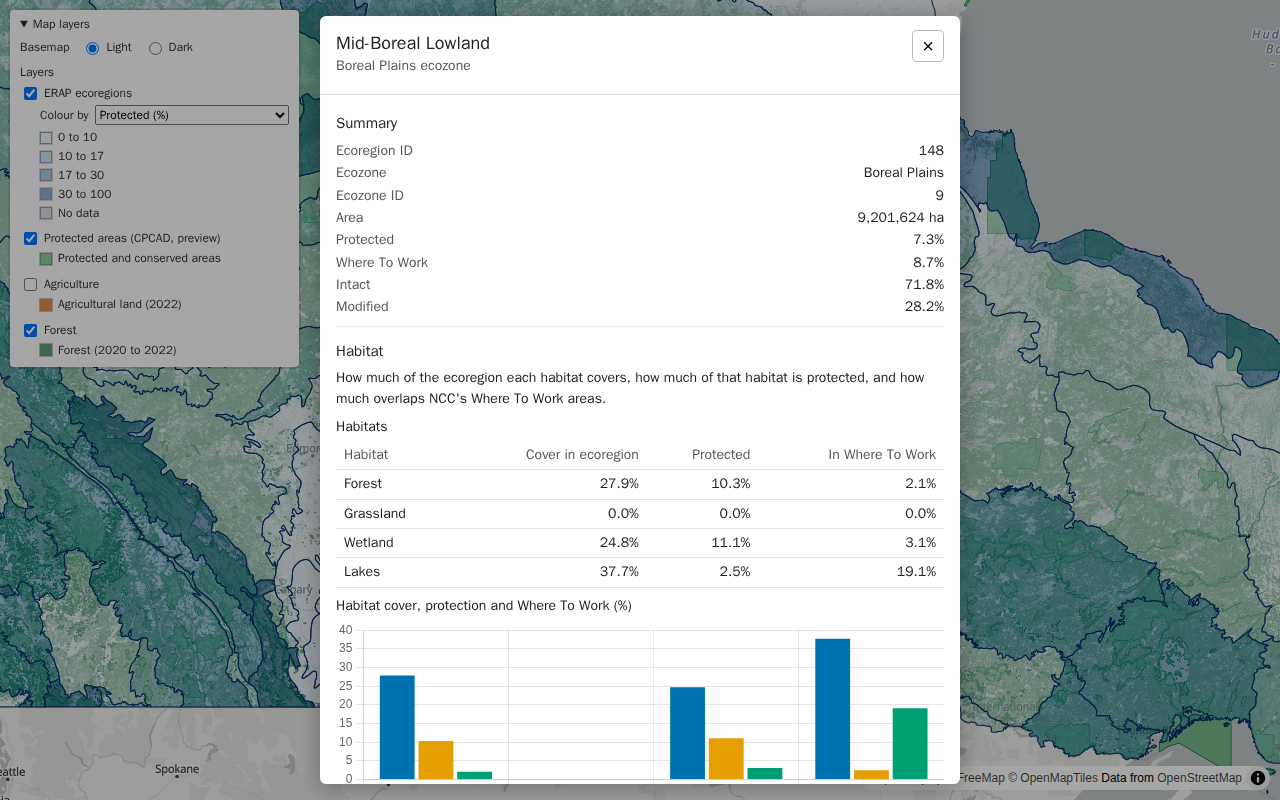
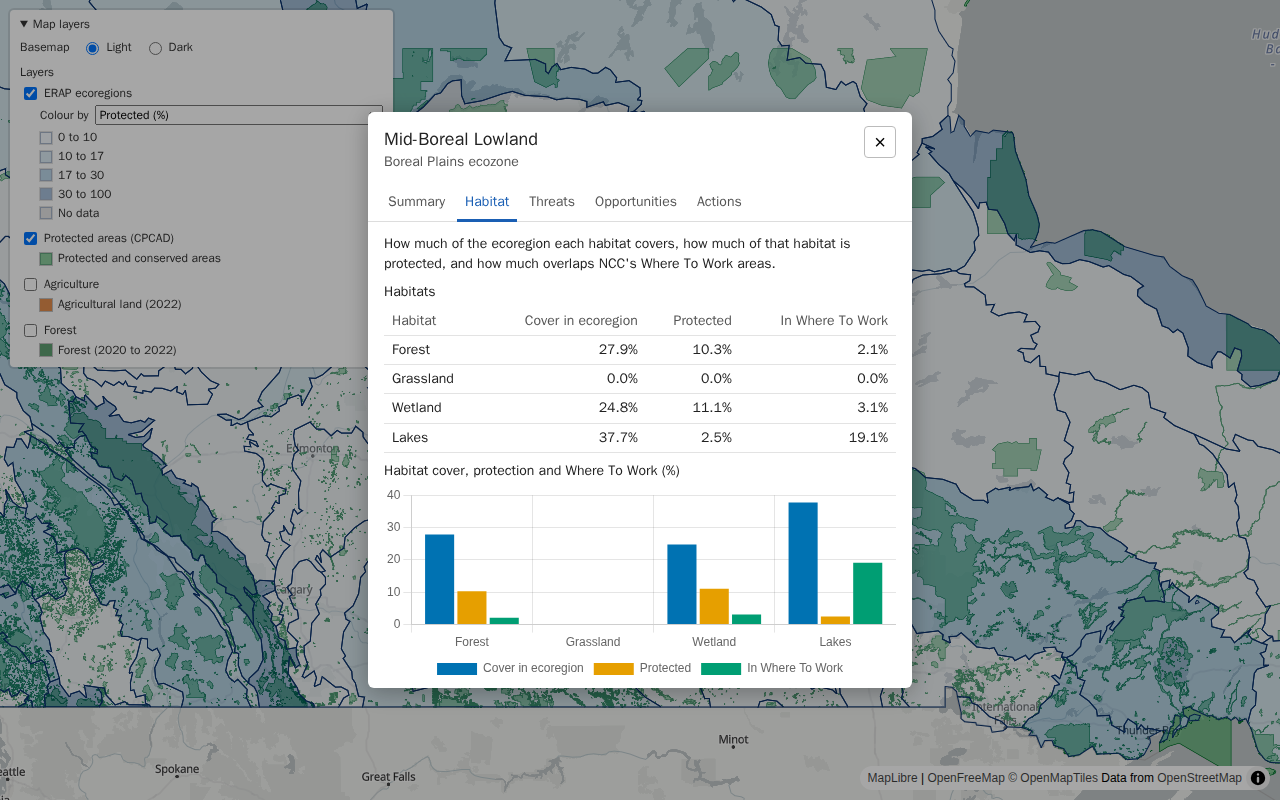
docs: README screenshot with the tabbed ecoregion modal (#78)

diff --git a/README.md b/README.md
@@ -4,9 +4,9 @@ A proof of concept for processing spatial data into vector tiles and viewing
 them in an interactive web map.
 
 ![The web map on the Light basemap with the ERAP ecoregions coloured by
-percent protected over the forest and protected area layers, the layer
-panel with its "Colour by" choice and legends on the left, and the click
-modal of the Mid-Boreal Lowland ecoregion showing its summary, a habitat
+percent protected and the protected areas in green, the layer panel with
+its "Colour by" choice and legends on the left, and the click modal of
+the Mid-Boreal Lowland ecoregion open on its Habitat tab, with a habitat
 table and a grouped bar chart](docs/images/map-modal.png)
 
 - **Pipeline** (`pipeline/`): bash scripts using GDAL, tippecanoe, and the
